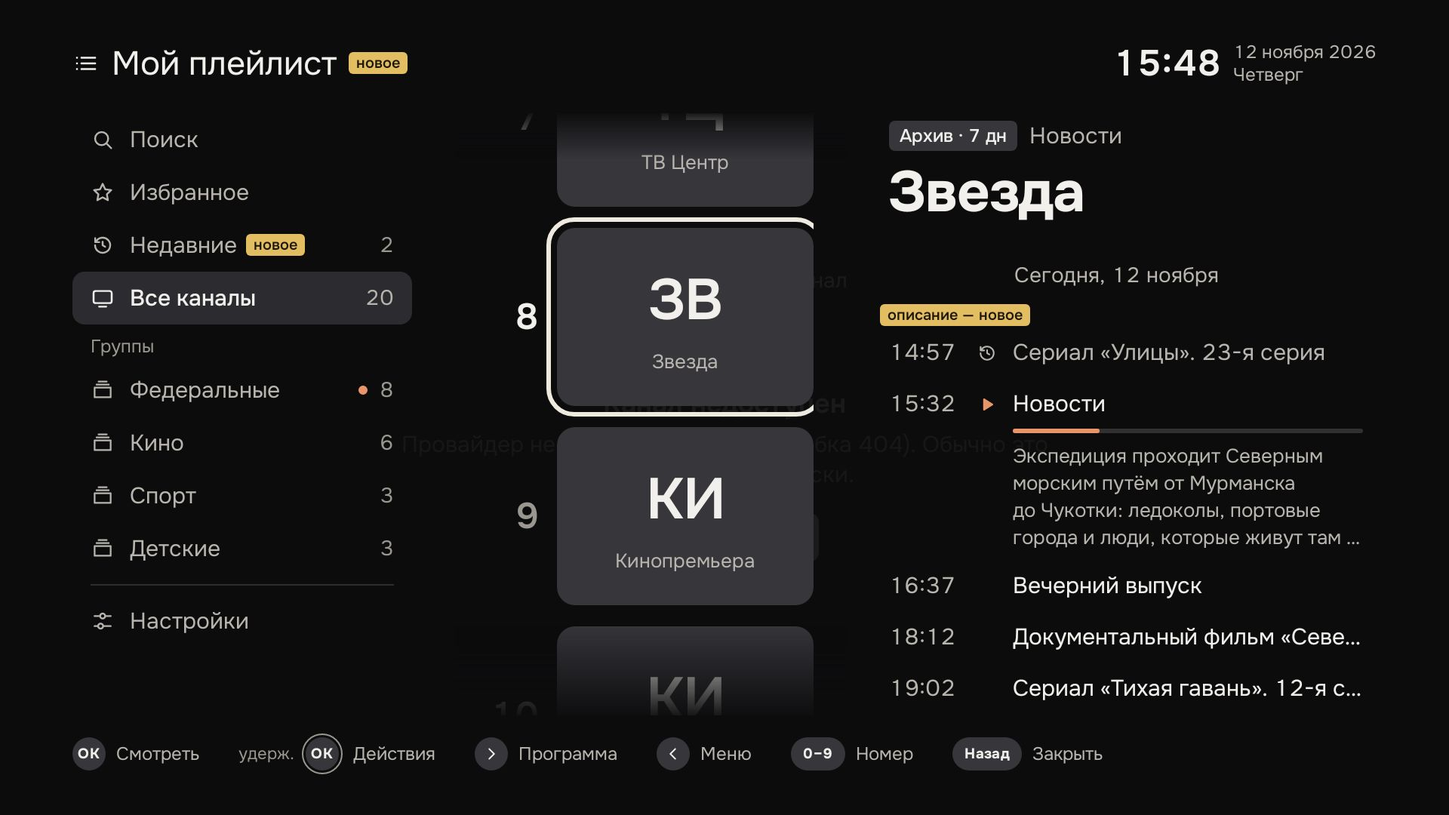
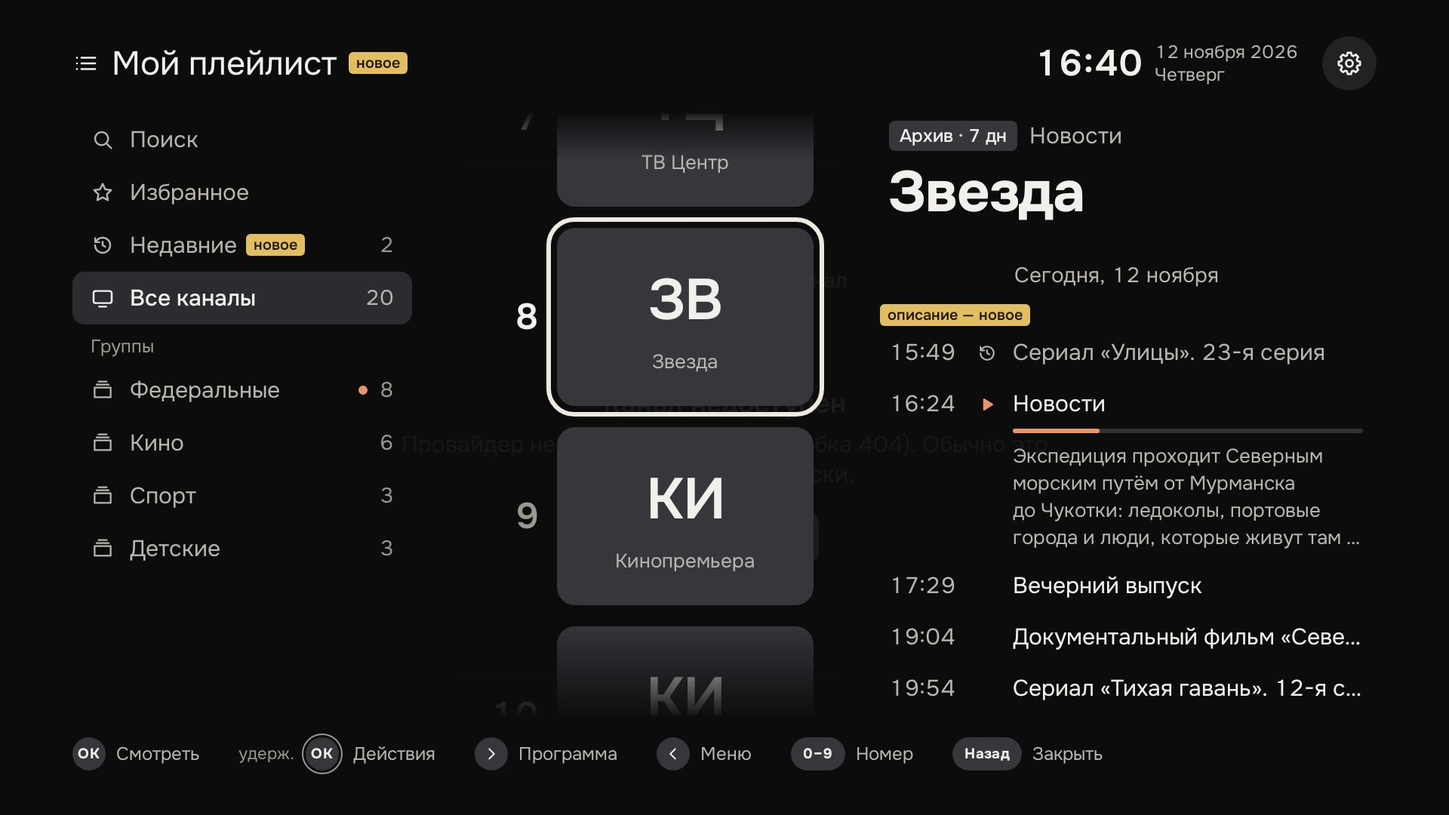
Гид: «Настройки» — шестерёнка в шапке, рамки плиток не срезаются
- «Настройки» на ТВ теперь круглая кнопка с шестерёнкой справа от часов,
  а не последний пункт меню: ▲ с «Поиска» — в шапку (при нескольких
  плейлистах сначала на плейлист, ▶ — на шестерёнку), OK — настройки.
  Освободившееся место отдано шестой строке групп. На компьютере
  «Настройки» остались в меню.
- Новый значок-шестерёнка в стиле набора (24×24, линия 1,8).
- Android: рамки фокуса и «играет» у плиток гида больше не срезаются
  справа — строка плитки была уже рамки.
- Тесты, снимки README и QA, DEVIATIONS обновлены.

Claude-Session: https://claude.ai/code/session_01B1ShhQDbBmNusxCT3aMhFM

diff --git a/web/app.js b/web/app.js
@@ -30,6 +30,7 @@
   if (LITE) document.body.className += ' lite';
   var ICON = {
     search: 'M4.5 11a6.5 6.5 0 1 0 13 0a6.5 6.5 0 1 0-13 0M16 16l4.5 4.5',
+    gear: 'M9.87 5.02 L10.50 2.52 L13.50 2.52 L14.13 5.02 L15.43 5.55 L17.64 4.23 L19.77 6.36 L18.45 8.57 L18.98 9.87 L21.48 10.50 L21.48 13.50 L18.98 14.13 L18.45 15.43 L19.77 17.64 L17.64 19.77 L15.43 18.45 L14.13 18.98 L13.50 21.48 L10.50 21.48 L9.87 18.98 L8.57 18.45 L6.36 19.77 L4.23 17.64 L5.55 15.43 L5.02 14.13 L2.52 13.50 L2.52 10.50 L5.02 9.87 L5.55 8.57 L4.23 6.36 L6.36 4.23 L8.57 5.55z M9 12a3 3 0 1 0 6 0a3 3 0 1 0-6 0',
     settings: 'M4 7h5.5M14.5 7H20M9.5 7a2.5 2.5 0 1 0 5 0a2.5 2.5 0 1 0-5 0M4 17h3.5M12.5 17H20M7.5 17a2.5 2.5 0 1 0 5 0a2.5 2.5 0 1 0-5 0',
     star: 'M12 3.5l2.6 5.4 5.9.8-4.3 4.1 1.05 5.9L12 16.9l-5.25 2.8 1.05-5.9-4.3-4.1 5.9-.8z',
     tv: 'M5 5h14a2 2 0 0 1 2 2v8a2 2 0 0 1-2 2H5a2 2 0 0 1-2-2V7a2 2 0 0 1 2-2zM8.5 20.5h7',
@@ -168,6 +169,7 @@
     auto: load('auto', true),
     plugins: load('plugins', []),
     playlists: load('playlists', null), activePl: load('activePl', ''),
+    hi: 0, // фокус в шапке гида: 0 — плейлист, 1 — настройки
     recent: load('recent', []), seen: load('seen', {}),
     vol: load('vol', 100), muted: load('muted', false),
     channels: [], epgUrls: [],
@@ -669,7 +671,7 @@
     return null;
   }
 
-  /** Меню гида: Поиск, Избранное, Недавние, Все каналы, группы плейлиста в порядке файла, Настройки. */
+  /** Меню гида: Поиск, Избранное, Недавние, Все каналы, группы плейлиста в порядке файла, Настройки (на ТВ — шестерёнка в шапке). */
   var TOP = 4; // сколько пунктов закреплено сверху
   function buildMenu() {
     var menu = [
@@ -902,7 +904,7 @@
   }
 
   // ---------- гид: меню · каналы · подробности ----------
-  var GROUP_ROWS = 5, PITCH = 264;
+  var GROUP_ROWS = 6, PITCH = 264;
   var progKey = '';
 
   function menuRow(i) {
@@ -922,7 +924,7 @@
       html += '<div class="sect">Группы</div>';
       for (i = start; i < Math.min(n, start + rows); i++) html += menuRow(TOP + i);
     }
-    html += '<div class="sep"></div>' + menuRow(last);
+    if (deskMode()) html += '<div class="sep"></div>' + menuRow(last);
     if (deskMode()) html += '<div class="mi' + (S.zone === 'groups' && S.gi === last + 1 ? ' sel' : '') + '" data-z="groups" data-i="' + (last + 1) + '" title="Плагины">' + svg('plug') + '<span class="t">Плагины</span></div>';
     $('gmenu').innerHTML = html;
   }
@@ -1069,7 +1071,8 @@
 
   function renderHead() {
     var a = activePlaylist(), many = S.playlists.length > 1, now = Date.now(), d = new Date(now);
-    $('gtitle').className = (S.zone === 'head' ? 'sel' : '') + (many ? ' many' : '');
+    $('gtitle').className = (S.zone === 'head' && S.hi === 0 ? 'sel' : '') + (many ? ' many' : '');
+    cls($('gset'), 'sel', S.zone === 'head' && S.hi === 1);
     $('gtitle').innerHTML = svg('list') + '<span class="t">' + esc(a ? a.name : 'IPTV') + '</span>' + (deskMode() && a ? '<span class="n"> · ' + S.channels.length + '</span>' : '') +
       (many ? svg('chevron-down', 'chev') : '') + newTag('playlists');
     $('gclock').innerHTML = '<b>' + clock(now) + '</b><span>' + dateText(now) + ' ' + d.getFullYear() + '<br>' + WDAYS[d.getDay()] + '</span>';
@@ -1081,13 +1084,13 @@
       h = (ch ? hint('ok', 'Смотреть', 'ok') + hint('hold', 'Действия', 'ctx') : '') + (ch && S.prog.length ? hint('r', 'Программа', 'right') : '') +
         hint('l', 'Меню', 'left') + hint('0–9', 'Номер') + hint('back', 'Закрыть', 'back');
     } else if (z === 'groups') {
-      h = hint('ud', 'Раздел') + hint('ok', 'Открыть', 'ok') + (S.playlists.length > 1 ? hint('u', 'сверху Плейлист') : '') + hint('back', 'Закрыть', 'back');
+      h = hint('ud', 'Раздел') + hint('ok', 'Открыть', 'ok') + hint('u', S.playlists.length > 1 ? 'сверху Плейлист' : 'сверху Настройки') + hint('back', 'Закрыть', 'back');
     } else if (z === 'epg') {
       h = hint('ud', 'Передачи') + hint('ok', 'Смотреть', 'ok') + hint('u', 'сверху День') + hint('l', 'К каналам', 'left') + hint('back', 'Закрыть', 'back');
     } else if (z === 'date') {
       h = hint('lr', 'День') + hint('d', 'К передачам', 'down') + hint('back', 'К передачам', 'back');
     } else if (z === 'head') {
-      h = hint('ok', 'Сменить плейлист', 'ok') + hint('d', 'К меню', 'down') + hint('back', 'К меню', 'back');
+      h = hint('ok', S.hi === 0 ? 'Сменить плейлист' : 'Настройки', 'ok') + (S.playlists.length > 1 ? hint('lr', 'Выбор') : '') + hint('d', 'К меню', 'down') + hint('back', 'К меню', 'back');
     } else if (z === 'ctx' || z === 'plm') {
       h = hint('ud', 'Выбор') + hint('ok', 'Выбрать', 'ok') + hint('back', 'Закрыть', 'back');
     }
@@ -1210,10 +1213,12 @@
   }
 
   function keyGroups(code) {
-    var last = S.menu.length - 1 + (deskMode() ? 1 : 0);
+    // На ТВ «Настройки» — шестерёнка в шапке, в меню их нет; на компьютере — последний пункт и «Плагины»
+    var last = S.menu.length - 1 + (deskMode() ? 1 : -1);
     if (code === KEY.UP) {
       if (S.gi > 0) S.gi--;
-      else if (S.playlists.length > 1) { S.zone = 'head'; renderGuide(); return; }
+      else if (!deskMode()) { S.zone = 'head'; S.hi = S.playlists.length > 1 ? 0 : 1; renderGuide(); return; }
+      else if (S.playlists.length > 1) { S.zone = 'head'; S.hi = 0; renderGuide(); return; }
       else return;
     } else if (code === KEY.DOWN) { if (S.gi < last) S.gi++; else return; }
     else if (code === KEY.CH_UP) S.gi = Math.max(0, S.gi - GROUP_ROWS);
@@ -1266,7 +1271,9 @@
     var z = S.zone;
     if (z === 'head') {
       if (code === KEY.DOWN) { S.zone = 'groups'; S.gi = 0; renderGuide(); }
-      else if (code === KEY.ENTER) openPlaylistMenu();
+      else if (code === KEY.LEFT) { if (S.hi === 1 && S.playlists.length > 1) { S.hi = 0; renderGuide(); } }
+      else if (code === KEY.RIGHT) { if (S.hi === 0 && !deskMode()) { S.hi = 1; renderGuide(); } }
+      else if (code === KEY.ENTER) { if (S.hi === 1) openSetup(); else openPlaylistMenu(); }
     } else if (z === 'groups') keyGroups(code);
     else if (z === 'channels') keyChannels(code);
     else if (z === 'epg') keyEpg(code);
@@ -3090,7 +3097,8 @@
     }
     else if (z === 'channels') { changed = S.zone !== z || S.ci !== i; S.zone = z; S.ci = i; }
     else if (z === 'epg') { changed = S.zone !== z || S.pi !== i; S.zone = z; S.pi = i; }
-    else if (z === 'date' || z === 'head') { changed = S.zone !== z; S.zone = z; }
+    else if (z === 'date') { changed = S.zone !== z; S.zone = z; }
+    else if (z === 'head') { changed = S.zone !== z || S.hi !== i; S.zone = z; S.hi = i; }
     else if (z === 'ctx' || z === 'plm') { changed = M.i !== i; if (!M.items[i] || M.items[i].off) return false; M.i = i; }
     else if (z === 'ctl') { changed = S.zone !== z || P.bi !== i; if (P.btns[i] && P.btns[i].off) return false; if (S.zone === 'play') S.zone = 'ctl'; P.bi = i; }
     else if (z === 'grid') {
@@ -3121,7 +3129,7 @@
     if (z === 'groups') keyGroups(KEY.ENTER);
     else if (z === 'channels') chooseChannel();
     else if (z === 'epg') chooseProgramme();
-    else if (z === 'head') openPlaylistMenu(deskMode() ? { x: 248, y: 44, cursor: true } : null);
+    else if (z === 'head') { if (i === 1) openSetup(); else openPlaylistMenu(deskMode() ? { x: 248, y: 44, cursor: true } : null); }
     else if (z === 'ctx' || z === 'plm') popChoose();
     else if (z === 'ctl') ctlPress(i);
     else if (z === 'grid') { if (v === 'ch') tuneTo(G.list[i], G.list, G.group); else gridChoose(); }

diff --git a/app/src/main/java/com/volnalabs/tv/ui/TvLayers.kt b/app/src/main/java/com/volnalabs/tv/ui/TvLayers.kt
@@ -44,6 +44,9 @@ class TvLayers(private val a: MainActivity) {
     lateinit var guide: FrameLayout
     lateinit var gTitle: LinearLayout
     lateinit var gClock: LinearLayout
+    lateinit var gSet: FrameLayout
+    /** Фокус в шапке гида: 0 — плейлист, 1 — настройки. */
+    var headIndex = 0
     lateinit var gMenu: LinearLayout
     lateinit var gChans: FrameLayout
     lateinit var gDet: LinearLayout
@@ -552,6 +555,8 @@ class TvLayers(private val a: MainActivity) {
             addView(gTitle, u.lin(WRAP, 72, l = -20))
             addView(View(a), u.lin(0, 1, 1f))
             addView(gClock)
+            gSet = u.box { isClickable = true; contentDescription = "Настройки"; setOnClickListener { a.openSettings() } }
+            addView(gSet, u.lin(72, 72, l = 32))
         }, u.fr(MATCH, 88, l = 96, t = 40, r = 96))
         gMenu = u.col()
         gChans = u.box { clipChildren = true }
@@ -634,7 +639,11 @@ class TvLayers(private val a: MainActivity) {
     fun renderHead() {
         val pl = Repo.active
         val many = Repo.playlists.value.size > 1
-        val sel = a.zone == "head"
+        val sel = a.zone == "head" && headIndex == 0
+        val selSet = a.zone == "head" && headIndex == 1
+        gSet.removeAllViews()
+        gSet.background = u.rect(if (selSet) C.PAPER else C.S2, 36)
+        gSet.addView(u.icon(R.drawable.ic_gear, 36, if (selSet) C.TI else C.T1), u.fr(36, 36, Gravity.CENTER))
         gTitle.removeAllViews()
         gTitle.background = if (sel) u.rect(C.PAPER, 16) else null
         u.pad(gTitle, 20, 0, 20, 0)
@@ -675,20 +684,19 @@ class TvLayers(private val a: MainActivity) {
 
     fun renderMenu() {
         gMenu.removeAllViews()
-        val last = a.menu.size - 1
-        if (last < 0) return
+        // «Настройки» — шестерёнка в шапке, поэтому в меню только разделы и группы
+        val total = a.menu.size
+        if (total == 0) return
         val top = 4
-        for (i in 0 until minOf(top, last)) gMenu.addView(menuRow(i), u.lin(MATCH, 70))
-        val n = last - top
+        for (i in 0 until minOf(top, total)) gMenu.addView(menuRow(i), u.lin(MATCH, 70))
+        val n = total - top
         if (n > 0) {
-            val rows = 5
-            val selG = if (a.gi in top until last) a.gi - top else (a.menuIndex(a.menuId) - top).coerceAtLeast(0)
+            val rows = 6
+            val selG = if (a.gi >= top) a.gi - top else (a.menuIndex(a.menuId) - top).coerceAtLeast(0)
             val start = (selG - rows + 1).coerceAtLeast(0).let { s -> if (selG < s) selG else s }.coerceIn(0, (n - rows).coerceAtLeast(0))
             gMenu.addView(u.text("Группы", 24, C.T3).apply { gravity = Gravity.BOTTOM; u.pad(this, 24, 0, 24, 8) }, u.lin(MATCH, 52))
             for (i in start until minOf(n, start + rows)) gMenu.addView(menuRow(top + i), u.lin(MATCH, 70))
         }
-        gMenu.addView(View(a).apply { setBackgroundColor(C.LINE) }, u.lin(MATCH, 2, l = 24, t = 12, r = 24, b = 12))
-        gMenu.addView(menuRow(last), u.lin(MATCH, 70))
     }
 
     private fun emptyChannels(): View = when (a.menuId) {
@@ -727,7 +735,7 @@ class TvLayers(private val a: MainActivity) {
                 contentDescription = "${c.number}, ${c.name}"
                 if (sel) isSelected = true
             }
-            gChans.addView(row, u.fr(476, 264, t = y - 14))
+            gChans.addView(row, u.fr(MATCH, 264, t = y - 14)) // рамка 122…490 px: строка не уже, иначе правый край срезается
         }
         // Затухание сверху и снизу колонки
         gChans.addView(View(a).apply { background = GradientDrawable(GradientDrawable.Orientation.TOP_BOTTOM, intArrayOf(0xF50D0D0E.toInt(), 0)) }, u.fr(MATCH, if (focus) 60 else 120))
@@ -826,10 +834,11 @@ class TvLayers(private val a: MainActivity) {
             a.popOpen -> setHints(gHints, "ud" to "Выбор", "ok" to "Выбрать", "back" to "Закрыть")
             a.zone == "channels" -> setHints(gHints, "ok" to if (ch != null) "Смотреть" else "", "hold" to if (ch != null) "Действия" else "",
                 "r" to if (ch != null && a.prog.isNotEmpty()) "Программа" else "", "l" to "Меню", "0–9" to "Номер", "back" to "Закрыть")
-            a.zone == "groups" -> setHints(gHints, "ud" to "Раздел", "ok" to "Открыть", "u" to if (Repo.playlists.value.size > 1) "сверху Плейлист" else "", "back" to "Закрыть")
+            a.zone == "groups" -> setHints(gHints, "ud" to "Раздел", "ok" to "Открыть", "u" to if (Repo.playlists.value.size > 1) "сверху Плейлист" else "сверху Настройки", "back" to "Закрыть")
             a.zone == "epg" -> setHints(gHints, "ud" to "Передачи", "ok" to "Смотреть", "u" to "сверху День", "l" to "К каналам", "back" to "Закрыть")
             a.zone == "date" -> setHints(gHints, "lr" to "День", "d" to "К передачам", "back" to "К передачам")
-            a.zone == "head" -> setHints(gHints, "ok" to "Сменить плейлист", "d" to "К меню", "back" to "К меню")
+            a.zone == "head" -> setHints(gHints, "ok" to if (headIndex == 0) "Сменить плейлист" else "Настройки", "lr" to if (Repo.playlists.value.size > 1) "Выбор" else "",
+                "d" to "К меню", "back" to "К меню")
         }
     }
 
@@ -867,7 +876,13 @@ class TvLayers(private val a: MainActivity) {
 
     fun keyGuide(key: Key) {
         when (a.zone) {
-            "head" -> when (key) { Key.DOWN -> { a.zone = "groups"; a.gi = 0; renderGuide() }; Key.OK -> openPlaylistMenu(); else -> Unit }
+            "head" -> when (key) {
+                Key.DOWN -> { a.zone = "groups"; a.gi = 0; renderGuide() }
+                Key.LEFT -> if (headIndex == 1 && Repo.playlists.value.size > 1) { headIndex = 0; renderGuide() }
+                Key.RIGHT -> if (headIndex == 0) { headIndex = 1; renderGuide() }
+                Key.OK -> if (headIndex == 1) a.openSettings() else openPlaylistMenu()
+                else -> Unit
+            }
             "groups" -> keyGroups(key)
             "channels" -> keyChannels(key)
             "epg" -> keyEpg(key)
@@ -878,14 +893,13 @@ class TvLayers(private val a: MainActivity) {
     private fun keyGroups(key: Key) {
         val last = a.menu.size - 1
         when (key) {
-            Key.UP -> if (a.gi > 0) a.gi-- else if (Repo.playlists.value.size > 1) { a.zone = "head"; renderGuide(); return } else return
+            Key.UP -> if (a.gi > 0) a.gi-- else { a.zone = "head"; headIndex = if (Repo.playlists.value.size > 1) 0 else 1; renderGuide(); return }
             Key.DOWN -> if (a.gi < last) a.gi++ else return
             Key.CH_UP -> a.gi = (a.gi - 5).coerceAtLeast(0)
             Key.CH_DOWN -> a.gi = (a.gi + 5).coerceAtMost(last)
             Key.OK, Key.RIGHT -> {
                 val m = a.menu[a.gi]
                 when (m.id) {
-                    "settings" -> { if (key == Key.OK) a.openSettings() }
                     "search" -> openSearch()
                     else -> {
                         a.selectMenu(m.id)

diff --git a/app/src/main/java/com/volnalabs/tv/ui/MainActivity.kt b/app/src/main/java/com/volnalabs/tv/ui/MainActivity.kt
@@ -465,7 +465,7 @@ class MainActivity : BaseActivity() {
         else -> menu.firstOrNull { it.id == id && !it.action }?.list
     }
 
-    /** Меню гида: Поиск, Избранное, Недавние, Все каналы, группы плейлиста в порядке файла, Настройки. */
+    /** Меню гида: Поиск, Избранное, Недавние, Все каналы, группы плейлиста в порядке файла. «Настройки» — шестерёнка в шапке. */
     internal fun buildMenu() {
         val groups = LinkedHashMap<String, ArrayList<Channel>>()
         for (c in playlist.channels) groups.getOrPut(c.group) { ArrayList() }.add(c)
@@ -474,7 +474,7 @@ class MainActivity : BaseActivity() {
             MenuItem("fav", "Избранное", R.drawable.ic_star, favList()),
             MenuItem("recent", "Недавние", R.drawable.ic_history, recentList(), isNew = "recent"),
             MenuItem("all", "Все каналы", R.drawable.ic_tv, playlist.channels),
-        ) + groups.map { MenuItem("g:" + it.key, it.key, R.drawable.ic_folder, it.value) } + MenuItem("settings", "Настройки", R.drawable.ic_settings, action = true)
+        ) + groups.map { MenuItem("g:" + it.key, it.key, R.drawable.ic_folder, it.value) }
         if (listOf(menuId) == null) menuId = "all"
     }
     internal fun menuIndex(id: String) = menu.indexOfFirst { it.id == id }.coerceAtLeast(0)

diff --git a/web/index.html b/web/index.html
@@ -33,6 +33,7 @@
     <div id="gsearch"><svg class="ic" viewBox="0 0 24 24"><path d="M4.5 11a6.5 6.5 0 1 0 13 0a6.5 6.5 0 1 0-13 0M16 16l4.5 4.5"/></svg><input id="q" type="text" placeholder="Название, номер или передача" autocomplete="off" spellcheck="false" aria-label="Поиск"><span class="hintq">начните печатать</span></div>
     <span id="gside" class="btn sm" data-a="side"><svg class="ic" viewBox="0 0 24 24"><path d="M8 7h12M8 12h12M8 17h12M4 7h.01M4 12h.01M4 17h.01"/></svg>Каналы</span>
     <div id="gclock"></div>
+    <span id="gset" data-z="head" data-i="1" role="button" aria-label="Настройки" title="Настройки"><svg class="ic" viewBox="0 0 24 24"><path d="M9.87 5.02 L10.50 2.52 L13.50 2.52 L14.13 5.02 L15.43 5.55 L17.64 4.23 L19.77 6.36 L18.45 8.57 L18.98 9.87 L21.48 10.50 L21.48 13.50 L18.98 14.13 L18.45 15.43 L19.77 17.64 L17.64 19.77 L15.43 18.45 L14.13 18.98 L13.50 21.48 L10.50 21.48 L9.87 18.98 L8.57 18.45 L6.36 19.77 L4.23 17.64 L5.55 15.43 L5.02 14.13 L2.52 13.50 L2.52 10.50 L5.02 9.87 L5.55 8.57 L4.23 6.36 L6.36 4.23 L8.57 5.55z M9 12a3 3 0 1 0 6 0a3 3 0 1 0-6 0"/></svg></span>
   </div>
   <div id="gbody">
     <div id="gmenu" role="listbox" aria-label="Разделы"></div>

diff --git a/app/src/test/java/com/volnalabs/tv/UiFlowTest.kt b/app/src/test/java/com/volnalabs/tv/UiFlowTest.kt
@@ -98,11 +98,17 @@ class UiFlowTest : UiTestBase() {
         assertEquals("channels", a.zone)
         assertEquals(a.cur?.key, a.list[a.ci].key)
         assertTrue("в разметке не больше пяти плиток", a.t.gChans.childCount <= 5 + 2)
-        // ▲ с «Поиска» — заголовок-плейлист только при нескольких плейлистах; здесь ничего не происходит
+        // ▲ с «Поиска» — шапка: плейлист один, поэтому фокус сразу на шестерёнке «Настройки»; ◀ на неё же
         a.key(KeyEvent.KEYCODE_DPAD_LEFT)
         assertEquals("groups", a.zone)
+        assertTrue("«Настройки» в меню больше нет", a.menu.none { it.id == "settings" })
         a.key(KeyEvent.KEYCODE_DPAD_UP, 10)
         assertEquals(0, a.gi)
+        assertEquals("head", a.zone)
+        assertEquals(1, a.t.headIndex)
+        a.key(KeyEvent.KEYCODE_DPAD_LEFT)
+        assertEquals(1, a.t.headIndex)
+        a.key(KeyEvent.KEYCODE_DPAD_DOWN)
         assertEquals("groups", a.zone)
         a.key(KeyEvent.KEYCODE_DPAD_DOWN, 3) // «Все каналы»
         a.key(KeyEvent.KEYCODE_DPAD_RIGHT)

diff --git a/web/style.css b/web/style.css
@@ -252,6 +252,12 @@ body.mouse #gtitle.many { cursor: pointer; }
 #gclock { display: -webkit-flex; display: flex; -webkit-align-items: center; align-items: center; margin-left: auto; }
 #gclock b { font-size: 48px; line-height: 56px; font-weight: 600; }
 #gclock span { margin-left: 16px; font-size: 24px; line-height: 28px; color: #B8B5AF; }
+/* Настройки — круглая кнопка с шестерёнкой справа от часов */
+#gset { display: -webkit-flex; display: flex; -webkit-align-items: center; align-items: center; -webkit-justify-content: center; justify-content: center; width: 72px; height: 72px; margin-left: 32px; border-radius: 36px; background: #222225; color: #F2F0EC; -webkit-flex: none; flex: none; }
+#gset .ic { width: 36px; height: 36px; }
+#gset.sel { background: #EFEAE0; color: #141415; }
+body.mouse #gset { cursor: pointer; }
+body.desk #gset { display: none; }
 #gbody { position: absolute; left: 96px; right: 96px; top: 150px; bottom: 132px; display: -webkit-flex; display: flex; }
 #ghints { position: absolute; left: 96px; right: 96px; bottom: 54px; }
 

diff --git a/app/src/test/java/com/volnalabs/tv/ScreenshotTest.kt b/app/src/test/java/com/volnalabs/tv/ScreenshotTest.kt
@@ -70,6 +70,9 @@ class ScreenshotTest : UiTestBase() {
         a.key(KeyEvent.KEYCODE_BACK)
         a.key(KeyEvent.KEYCODE_DPAD_LEFT)
         a.fakeVideo(); shot(a, "tv-23-menu")
+        a.key(KeyEvent.KEYCODE_DPAD_UP, 5) // шапка: шестерёнка «Настройки»
+        a.fakeVideo(); shot(a, "tv-24-settings-button")
+        a.key(KeyEvent.KEYCODE_BACK)
         a.key(KeyEvent.KEYCODE_BACK)
         a.hold() // меню действий → «Найти в сетке телепрограммы»
         a.key(KeyEvent.KEYCODE_DPAD_DOWN, a.popTitles.indexOf("Найти в сетке телепрограммы"))

diff --git a/docs/design/DEVIATIONS.md b/docs/design/DEVIATIONS.md
@@ -15,6 +15,8 @@
 | Поиск на Android TV — своя экранная клавиатура, как в web и макете TV-Search, без системной | `TvLayers.buildSearch()`, `keySearch()` | Раньше на Android было поле с системной клавиатурой. Буквы с настоящей клавиатуры и цифры пульта по-прежнему попадают в строку |
 | В OSD нет следующей передачи (время и название после разделителя) | `renderOsd()` | SPEC 4.1 показывает «дальше: время · название»; владелец попросил убрать — строка обрезалась и выглядела неаккуратно. Следующие передачи видны по ▶ в программе канала |
 | Во время просмотра заставка телевизора не включается: Android — `FLAG_KEEP_SCREEN_ON`, пока поток идёт или подгружается; Samsung — `webapis.appcommon.setScreenSaver(OFF)`; на паузе записи, при ошибке и в фоне — снова как решит система | `MainActivity.keepScreenOn()`, `screenSaver()` | Телевизор уходил в заставку посреди эфира: в эфире нет нажатий, а приложение не сообщало системе, что идёт видео. LG сам не включает заставку при воспроизведении `<video>` |
+| «Настройки» на ТВ — круглая кнопка с шестерёнкой справа от часов в шапке гида, а не последний пункт меню | `renderHead()`, `keyGroups()`, `#gset` / `TvLayers.gSet` | Владелец попросил: до «Настроек» приходилось листать меню до конца. ▲ с «Поиска» — в шапку (при нескольких плейлистах сначала на плейлист, ▶ — на шестерёнку). Освободившееся место отдано шестой строке групп. Значка-шестерёнки в наборе SPEC нет — нарисован в том же стиле (24×24, линия 1,8): `ICON.gear`, `ic_gear.xml`. На компьютере «Настройки» остались в меню |
+| Рамки фокуса и «играет» у плиток гида на Android больше не срезаются справа | `TvLayers.renderTiles()` | Строка плитки была 476 px холста, а рамка заканчивается на 490 |
 | Сетка, открытая из гида, прячет гид под собой | `openGrid()`, `closeGrid()` | Полупрозрачный фон сетки показывал гид насквозь; «Назад» возвращает гид |
 
 ## Процесс

diff --git a/README.md b/README.md
@@ -449,7 +449,7 @@ sudo apt install libfuse2
 
 **Номер канала.** Нажмите цифру — справа появятся каналы, чей номер с неё начинается: после «1» это 1, 10, 11, 12. Наберите вторую цифру или выберите канал ▲▼ и нажмите OK — или просто подождите пару секунд. ◀ стирает цифру, «Назад» отменяет ввод.
 
-**Разделы.** Слева — «Поиск», «Избранное», «Недавние», «Все каналы» и группы из плейлиста; внизу — «Настройки». ▲ с «Поиска» открывает выбор плейлиста, если их несколько.
+**Разделы.** Слева — «Поиск», «Избранное», «Недавние», «Все каналы» и группы из плейлиста. «Настройки» — круглая кнопка с шестерёнкой справа от часов: ▲ с «Поиска» ведёт в шапку, там же выбор плейлиста, если их несколько.
 
 **Записи передач.** Прошедшие передачи со значком ⟲ можно посмотреть с начала. ◀ ▶ перематывают на 30 секунд, OK ставит на паузу и показывает кнопки записи, «Назад» возвращает прямой эфир.
 

diff --git a/docs/design/QA.md b/docs/design/QA.md
@@ -13,7 +13,7 @@
 
 | Эталон | Web | Android |
 | --- | --- | --- |
-| TV-Guide | `web/tv-guide.jpg`, `web/tv720-guide.jpg` | `android/tv-20-guide.jpg` |
+| TV-Guide | `web/tv-guide.jpg`, `web/tv720-guide.jpg` | `android/tv-20-guide.jpg`, `android/tv-24-settings-button.jpg` |
 | TV-Guide-Context | `web/tv-actions.jpg` | `android/tv-22-actions.jpg` |
 | Прототип ТВ: меню плейлистов, строка даты | `web/tv-playlists-menu.jpg`, `web/tv-date.jpg` | `android/tv-23-menu.jpg` |
 | TV-Player-Info, TV-Player-Zap, TV-Player-Number (панели в эфире и мини-гида больше нет — DEVIATIONS) | `web/tv-osd.jpg`, `web/tv-zap.jpg`, `web/tv-number.jpg`, `web/tv-number-none.jpg` | `android/tv-10-osd.jpg`, `tv-12-zap.jpg`, `tv-13-number.jpg` |
